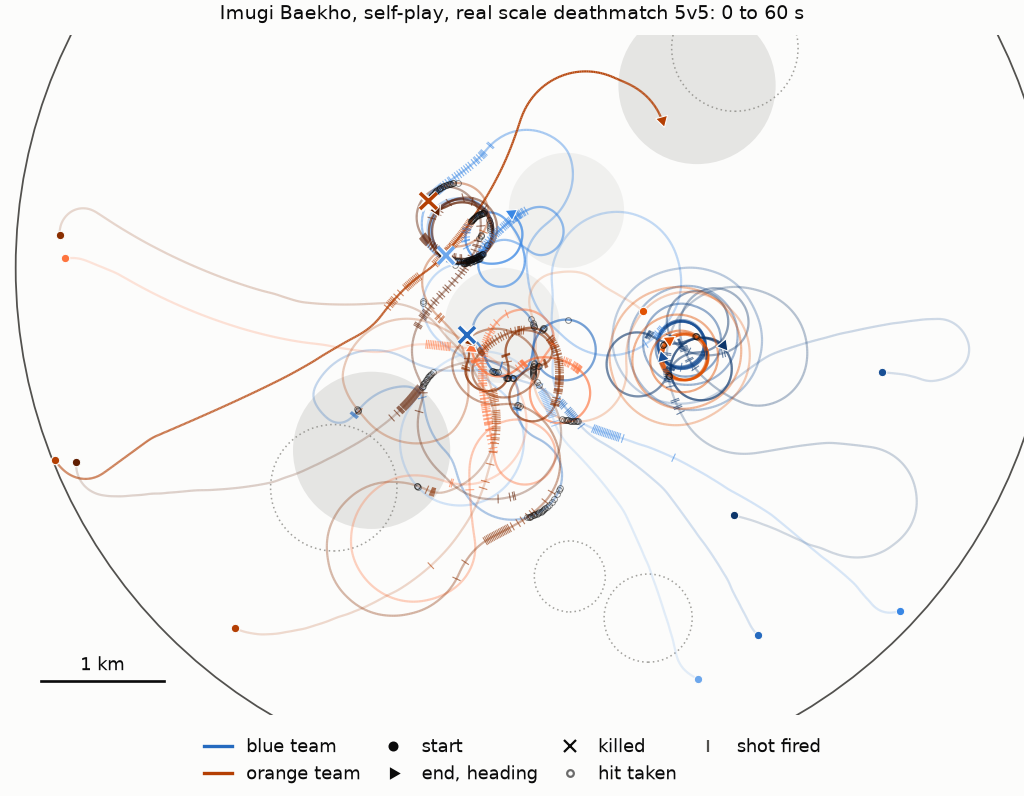
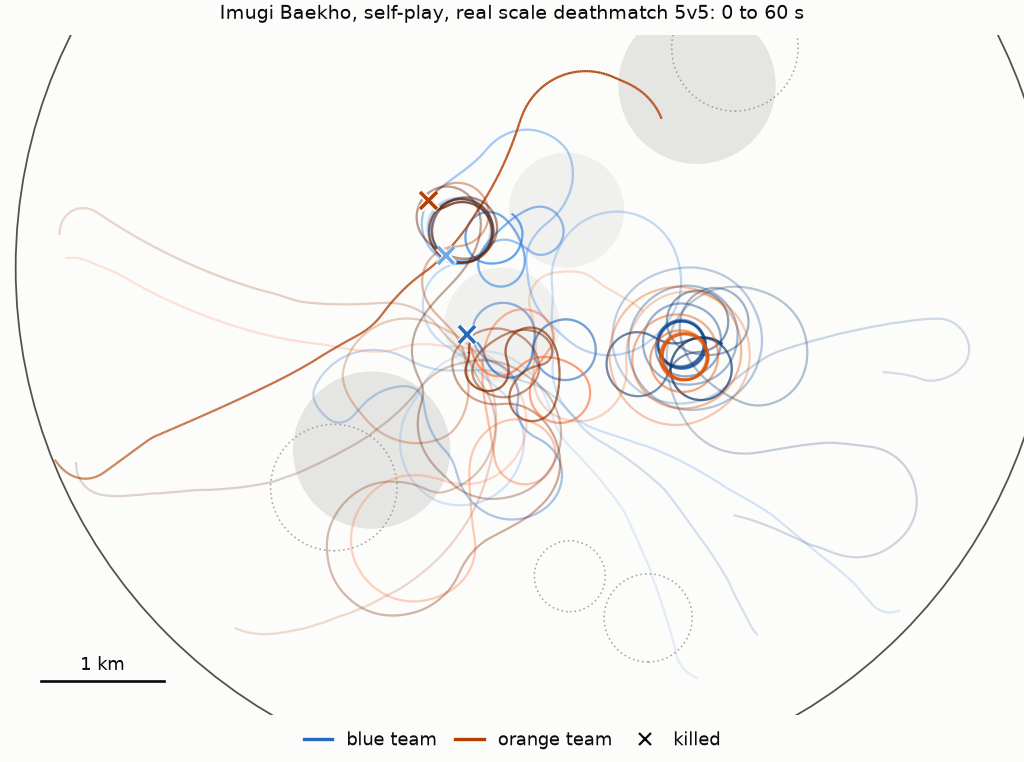
Trail stills: examples re-rendered with trails and deaths only (duel 1v1 0-120 s and 19-59 s, 5v5 opening, elimination fog)

diff --git a/progress.md b/progress.md
@@ -496,3 +496,8 @@ so B-5v5 = A-5v5); C the arena x (n / 5)^0.25 with fleet size (only 10v10 change
 - Done: four examples in docs/images/stills-examples/ (deathmatch 5v5 opening, light and dark; 1v1 two-circle duel; elimination 5v5 fog with rl-v20-seed1's belief ghosts).
 - Learned: a 10-min 5v5 game in one still is texture only (ticks now off past 90 s); the fog still needs at most 2 ghosted ships and a fight window to read.
 - Open: no v9 policy exists, so the fog example comes from a v8 policy captured at c262a32b (game v19) with match.py copied in.
+
+## 2026-11-16 23:55 trail stills: author feedback
+- Done: rebased on feat/imugi-boundary (bbb52a66; the final card commit had not landed); stills now draw trails + death X only, shots/hits/ends/fog opt-in, never all three in a fleet still.
+- Re-recorded the 1v1 duel (120 s) and the 5v5 deathmatch opening (60 s) on this tree: identical paths to before, as the earlier base already held sticky Imugi build 2.
+- Duel shape: tight circles (~400-500 m across), straight under 3 deg/s only 8-12% of the time; no racetrack legs. PNGs in /home/vizia/avesnova/review/stills/.
